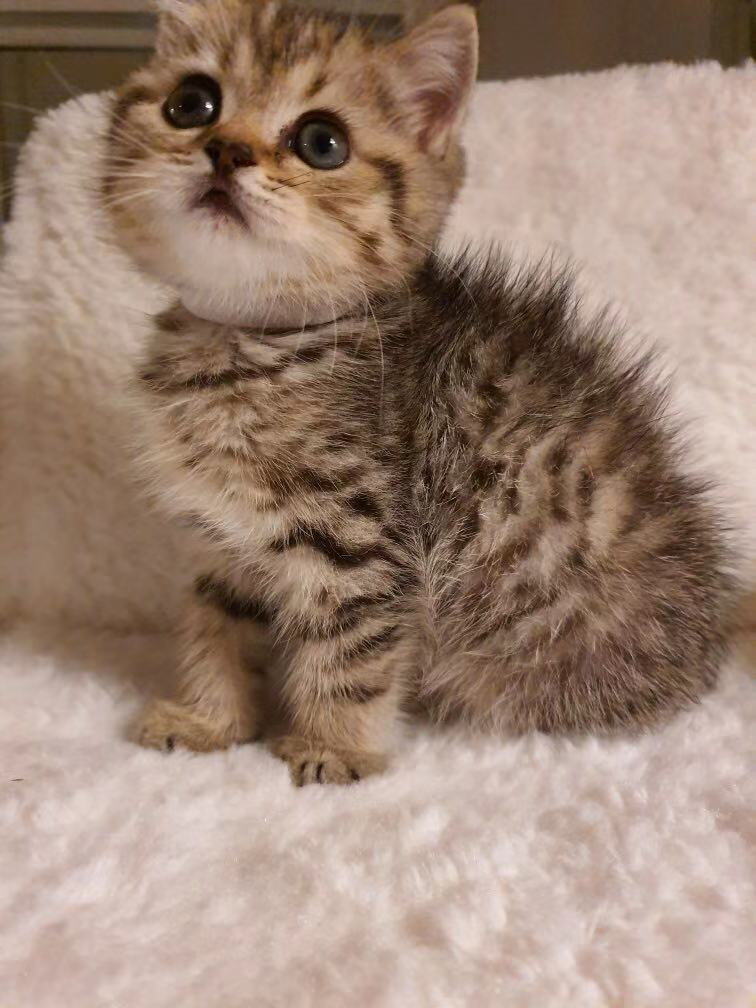
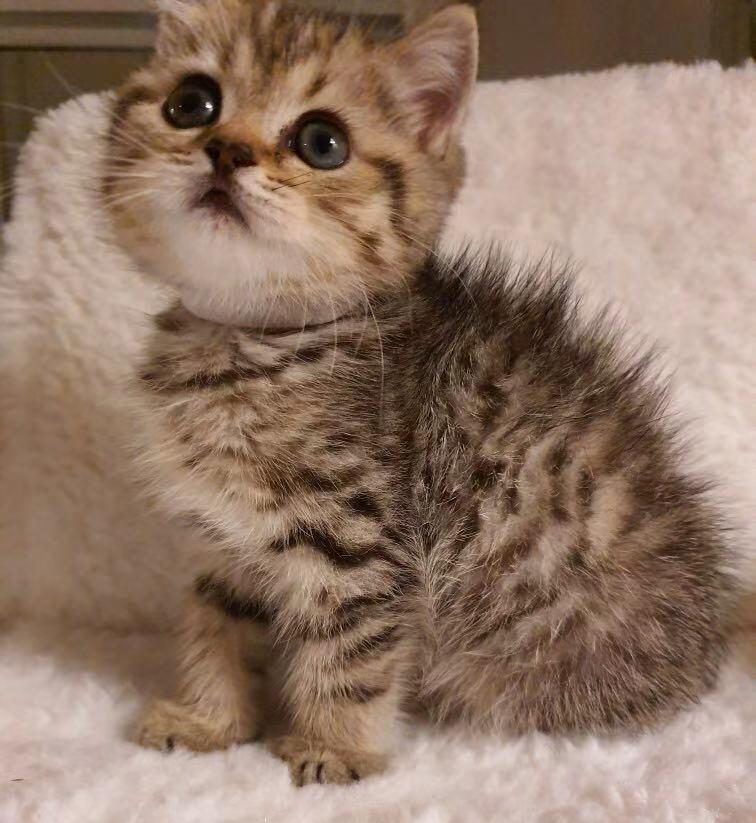
Fix photo size and some errors

diff --git a/about.md b/about.md
@@ -9,7 +9,7 @@ permalink: /about/
 <br/>
 I am little kitten which will move to a new house soon :)
 
-You can subscribe this website to see more pictures or videos about me! <a href=""><i class="fa fa-mouse”></i></a>
+You can subscribe this website to see more pictures or videos about me! <a href=""><i class="fa fa-gittip”></i></a>
 
 <br/>
 <hr/>
@@ -17,7 +17,7 @@ You can subscribe this website to see more pictures or videos about me! <a href=
 <span class="contacticon center">
 	<a href="mailto:you@example.com"><i class="fa fa-envelope-square"></i></a>
 	<a href="https://github.com" target="_blank"><i class="fa fa-github-square"></i></a>
-	<a href="https://bilibili.com" target="_blank"><i class="fa fa-youtube”></i></a>
+	<a href="https://bilibili.com" target="_blank"><i class="fa fa-youtube-play”></i></a>
 </span>
 
 <div class="col three caption">
